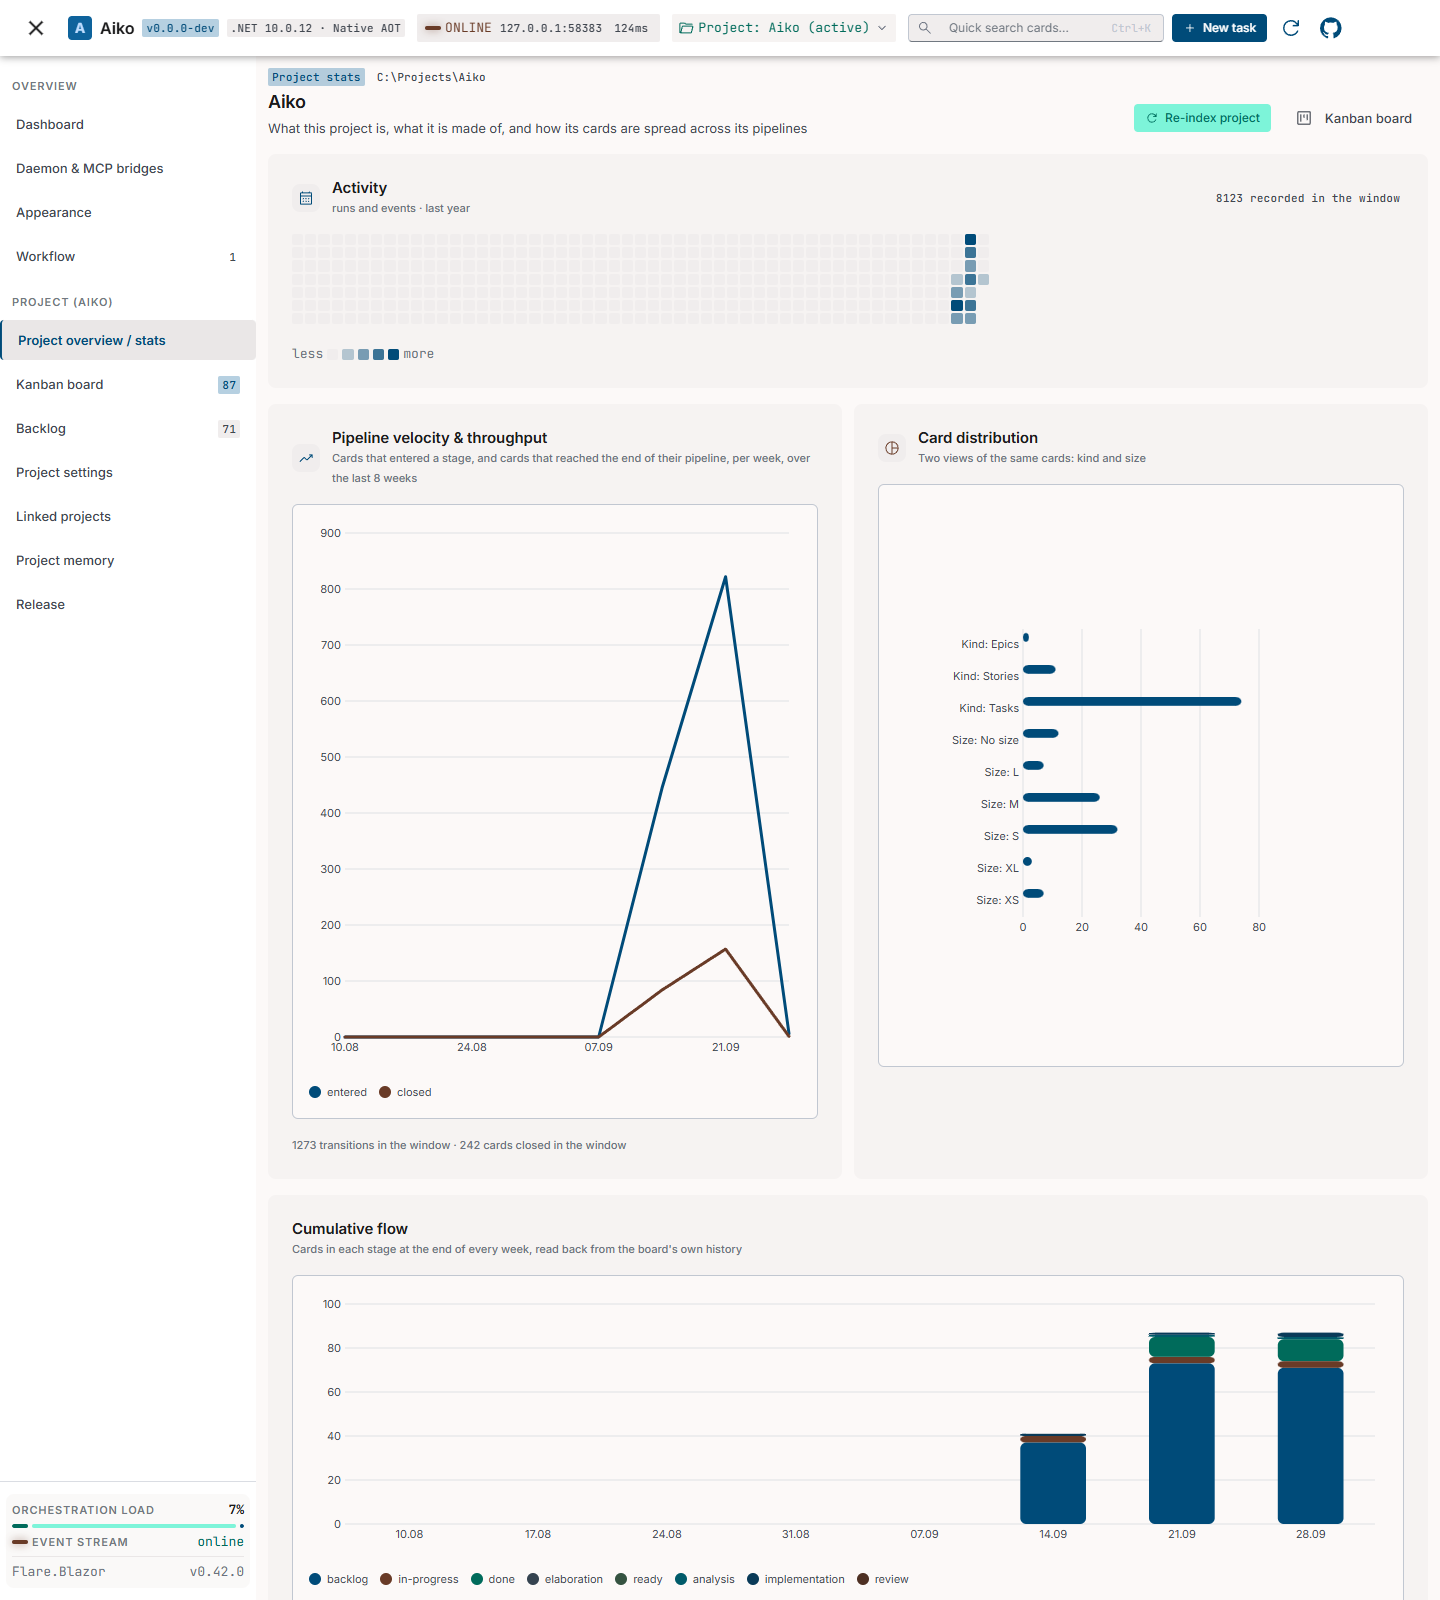
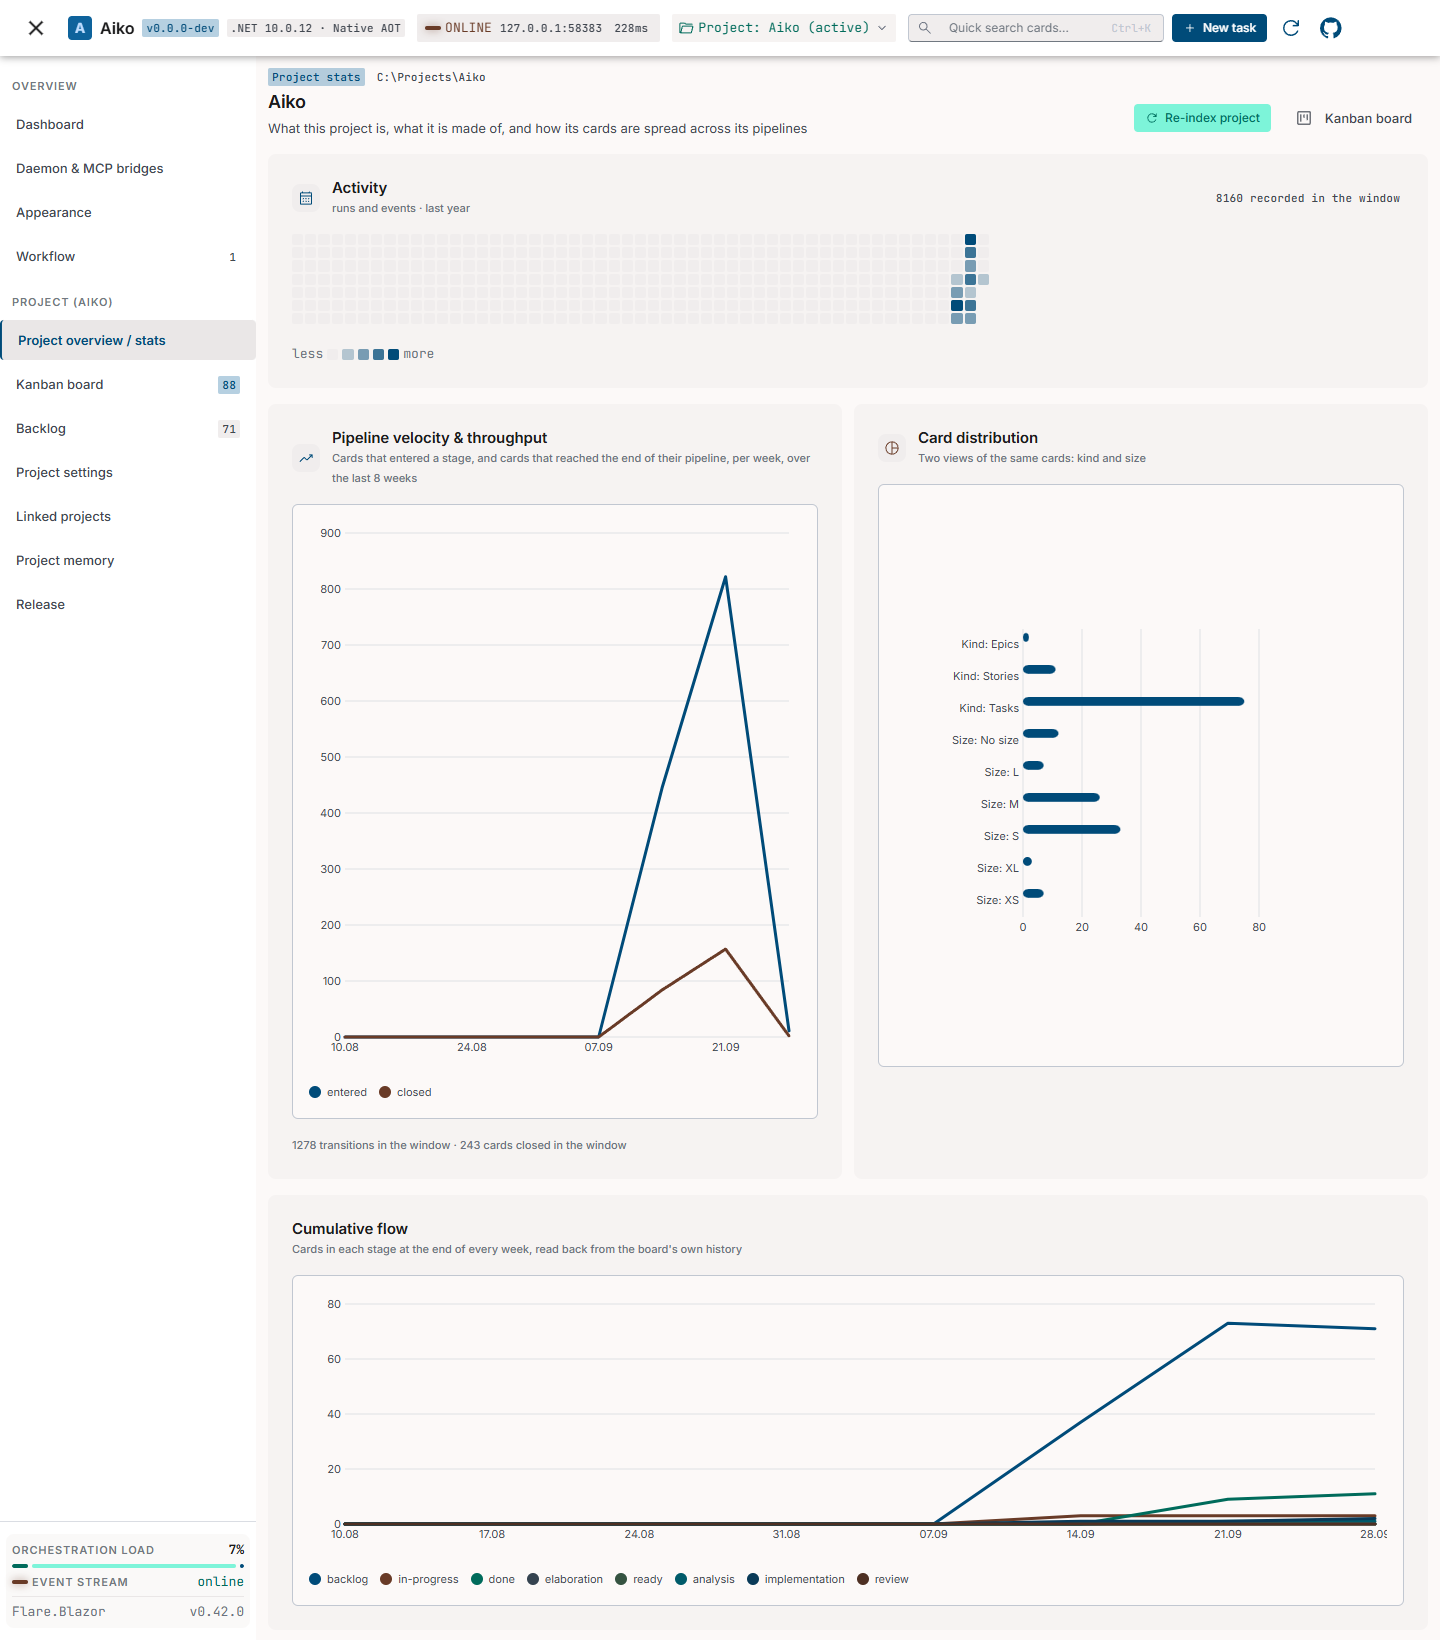
Add card and project settings screenshots

diff --git a/README.md b/README.md
@@ -26,8 +26,9 @@ rate limit) hands off to another agent without losing history.
 
 ## Screenshots
 
-Captured from the Aiko project at commit `20d2e19` (development build), with the English interface and
-light **Studio Modern** palette. Project paths are anonymized; card titles retain their original language.
+Captured from the Aiko project: dashboard and board at commit `20d2e19`; project overview, card and
+project settings at `51e8340`. These development builds use the English interface and light
+**Studio Modern** palette. Project paths are anonymized; card titles retain their original language.
 Click an image to open it at full size.
 
 **Dashboard** — projects, current work and activity across the workspace.
@@ -41,6 +42,14 @@ Click an image to open it at full size.
 **Project overview** — activity, pipeline velocity, card distribution and cumulative flow.
 
 <table><tr><td><a href="assets/screens/project.png"><img src="assets/screens/project.png" alt="Aiko project overview with activity, weekly velocity, card distribution and cumulative flow charts" width="1200" /></a></td></tr></table>
+
+**Card page** — requirements, declared scope, execution status and scoring for a real Aiko task.
+
+<table><tr><td><a href="assets/screens/card.png"><img src="assets/screens/card.png" alt="Aiko task card with requirements, scope files, stage status, agent commands and scoring" width="1200" /></a></td></tr></table>
+
+**Project settings** — workspace policies, priority formula and scoring criteria.
+
+<table><tr><td><a href="assets/screens/project-settings.png"><img src="assets/screens/project-settings.png" alt="Aiko project settings with workspace, scope, commit and push policies, priority weights and scoring criteria" width="1200" /></a></td></tr></table>
 
 ---
 
